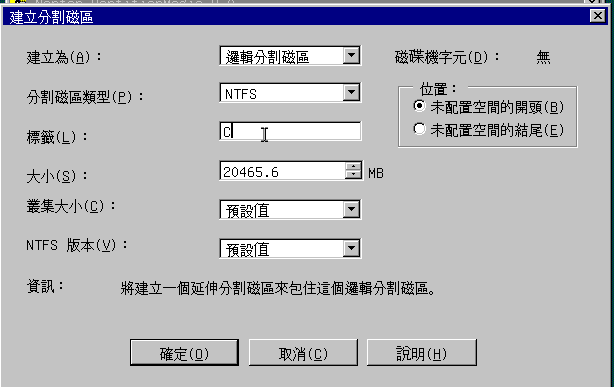
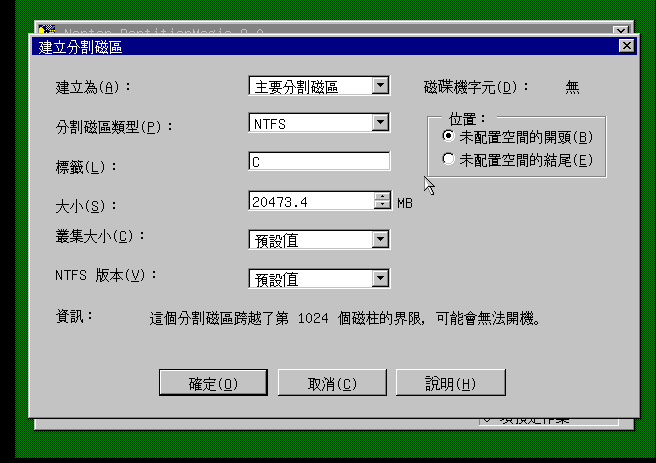
Site updated: 2019-10-29 20:48:37

diff --git a/2019/10/29/VMware-15-虚拟机安装-Win-7-系统/index.html b/2019/10/29/VMware-15-虚拟机安装-Win-7-系统/index.html
@@ -109,7 +109,6 @@
 <meta property="og:image" content="http://yoursite.com/2019/10/29/VMware-15-虚拟机安装-Win-7-系统/b.png">
 <meta property="og:image" content="http://yoursite.com/2019/10/29/VMware-15-虚拟机安装-Win-7-系统/c.png">
 <meta property="og:image" content="http://yoursite.com/2019/10/29/VMware-15-虚拟机安装-Win-7-系统/d.png">
-<meta property="og:image" content="http://yoursite.com/2019/10/29/VMware-15-虚拟机安装-Win-7-系统/e.png">
 <meta property="og:image" content="http://yoursite.com/2019/10/29/VMware-15-虚拟机安装-Win-7-系统/g.png">
 <meta property="og:image" content="http://yoursite.com/2019/10/29/VMware-15-虚拟机安装-Win-7-系统/h.png">
 <meta property="og:image" content="http://yoursite.com/2019/10/29/VMware-15-虚拟机安装-Win-7-系统/i.png">
@@ -127,7 +126,7 @@
 <meta property="og:image" content="http://yoursite.com/2019/10/29/VMware-15-虚拟机安装-Win-7-系统/%E5%9B%9B.png">
 <meta property="og:image" content="http://yoursite.com/2019/10/29/VMware-15-虚拟机安装-Win-7-系统/%E4%BA%94.png">
 <meta property="og:image" content="http://yoursite.com/2019/10/29/VMware-15-虚拟机安装-Win-7-系统/%E5%85%AD.png">
-<meta property="og:updated_time" content="2019-10-29T11:05:08.650Z">
+<meta property="og:updated_time" content="2019-10-29T12:44:02.681Z">
 <meta name="twitter:card" content="summary">
 <meta name="twitter:title" content="VMware 15 虚拟机安装 Win 7 系统">
 <meta name="twitter:description" content="下载地址：win7 ghost ISO镜像：https://pan.baidu.com/s/1zMpEhj5g0p5EVqXYi8QmQA提取码：qv2g (一)VMW新建虚拟机1、打开VMware,建立一个新的虚拟机2、选择”典型”,点击”下一步”3、选择”稍后安装系统”,点击”下一步”4、选择”Windows7”,点击”下一步”5、选择”浏览”改变安装路径(建议不要安装在C盘),点击”下一步”">
@@ -421,7 +420,7 @@
       
         <p>下载地址：<br>win7 ghost ISO镜像：<a href="https://pan.baidu.com/s/1zMpEhj5g0p5EVqXYi8QmQA" target="_blank" rel="noopener">https://pan.baidu.com/s/1zMpEhj5g0p5EVqXYi8QmQA</a><br>提取码：qv2g</p>
 <p>(一)VMW新建虚拟机<br>1、打开VMware,建立一个新的虚拟机<br><img src="/2019/10/29/VMware-15-虚拟机安装-Win-7-系统/1.png" alt><br>2、选择”典型”,点击”下一步”<br><img src="/2019/10/29/VMware-15-虚拟机安装-Win-7-系统/2.png" alt><br>3、选择”稍后安装系统”,点击”下一步”<br><img src="/2019/10/29/VMware-15-虚拟机安装-Win-7-系统/3.png" alt><br>4、选择”Windows7”,点击”下一步”<br><img src="/2019/10/29/VMware-15-虚拟机安装-Win-7-系统/4.png" alt><br>5、选择”浏览”改变安装路径(建议不要安装在C盘),点击”下一步”<br><img src="/2019/10/29/VMware-15-虚拟机安装-Win-7-系统/5.png" alt><br>6、设置硬盘大小,可以选择默认60G(博主建议尽量少点,原因请百度),点击”下一步”<br><img src="/2019/10/29/VMware-15-虚拟机安装-Win-7-系统/6.png" alt><br>7、点击”自定义硬件”<br><img src="/2019/10/29/VMware-15-虚拟机安装-Win-7-系统/7.png" alt><br>8、点击”新CD/DVD”,然后勾选”启动时链接”,选择”使用ISO映像文件”,点击”浏览”,选择下载好的ios镜像文件.点击下面的”高级”,选择”IDE”,点击”确定”。然后点击”关闭”(除上述必须一致,其他配置可依个人喜好设置)<br><img src="/2019/10/29/VMware-15-虚拟机安装-Win-7-系统/8.png" alt><br>9、点击”完成”<br><img src="/2019/10/29/VMware-15-虚拟机安装-Win-7-系统/9.png" alt></p>
-<p>(二)VMW安装Win7系统<br>1、直接点击界面上绿色的三角开机,进入BIOS系统设置中,直接退出保存即可<br><img src="/2019/10/29/VMware-15-虚拟机安装-Win-7-系统/a.png" alt><br>2、退出BIOS后页面,然后会进入下面的界面,选择”进入PQ分区工具”<br><img src="/2019/10/29/VMware-15-虚拟机安装-Win-7-系统/b.png" alt><br>3、出现的对话框中,直接点击作业- -&gt;建立<br><img src="/2019/10/29/VMware-15-虚拟机安装-Win-7-系统/c.png" alt><br>4、如下图选择后,点击确认<br><img src="/2019/10/29/VMware-15-虚拟机安装-Win-7-系统/d.png" alt><br>5、如下图,将类型为”NTFS”的项变更为主要<br><img src="/2019/10/29/VMware-15-虚拟机安装-Win-7-系统/e.png" alt><br>6、而后点击”执行”,完成后点击”结束”<br>7、然后出现此界面,直接输入”R”回车<br><img src="/2019/10/29/VMware-15-虚拟机安装-Win-7-系统/g.png" alt><br>8、返回Ghost界面,选择”安装Ghost Win7到C盘”<br><img src="/2019/10/29/VMware-15-虚拟机安装-Win-7-系统/h.png" alt><br>9、然后会进入下面Windows安装界面,等待安装完成<br><img src="/2019/10/29/VMware-15-虚拟机安装-Win-7-系统/i.png" alt><br>10、安装完成后,出现下面界面<br><img src="/2019/10/29/VMware-15-虚拟机安装-Win-7-系统/j.png" alt><br>11、关机退出<br><img src="/2019/10/29/VMware-15-虚拟机安装-Win-7-系统/k.png" alt><br>12、直接打开Win7虚拟机,再次进入”PQ分区工具”<br><img src="/2019/10/29/VMware-15-虚拟机安装-Win-7-系统/l.png" alt><br>13、选定类型为”NTFS”的项,点击”作业”- -&gt;”进阶”- -&gt;”设定为作用”,点击”确认”<br><img src="/2019/10/29/VMware-15-虚拟机安装-Win-7-系统/f.png" alt><br>14、然后点击”执行”- -&gt;”结束”<br>15、然后开始安装程序<br><img src="/2019/10/29/VMware-15-虚拟机安装-Win-7-系统/m.png" alt><br>16、直到出现此界面表示安装成功<br><img src="/2019/10/29/VMware-15-虚拟机安装-Win-7-系统/n.png" alt></p>
+<p>(二)VMW安装Win7系统<br>1、直接点击界面上绿色的三角开机,进入BIOS系统设置中,直接退出保存即可<br><img src="/2019/10/29/VMware-15-虚拟机安装-Win-7-系统/a.png" alt><br>2、退出BIOS后页面,然后会进入下面的界面,选择”进入PQ分区工具”<br><img src="/2019/10/29/VMware-15-虚拟机安装-Win-7-系统/b.png" alt><br>3、出现的对话框中,直接点击作业- -&gt;建立<br><img src="/2019/10/29/VMware-15-虚拟机安装-Win-7-系统/c.png" alt><br>4、如下图选择后,点击确认<br><img src="/2019/10/29/VMware-15-虚拟机安装-Win-7-系统/d.png" alt><br>5、而后点击”执行”,完成后点击”结束”<br>6、然后出现此界面,直接输入”R”回车<br><img src="/2019/10/29/VMware-15-虚拟机安装-Win-7-系统/g.png" alt><br>7、返回Ghost界面,选择”安装Ghost Win7到C盘”<br><img src="/2019/10/29/VMware-15-虚拟机安装-Win-7-系统/h.png" alt><br>8、然后会进入下面Windows安装界面,等待安装完成<br><img src="/2019/10/29/VMware-15-虚拟机安装-Win-7-系统/i.png" alt><br>9、安装完成后,出现下面界面<br><img src="/2019/10/29/VMware-15-虚拟机安装-Win-7-系统/j.png" alt><br>10、关机退出<br><img src="/2019/10/29/VMware-15-虚拟机安装-Win-7-系统/k.png" alt><br>11、直接打开Win7虚拟机,再次进入”PQ分区工具”<br><img src="/2019/10/29/VMware-15-虚拟机安装-Win-7-系统/l.png" alt><br>12、选定类型为”NTFS”的项,点击”作业”- -&gt;”进阶”- -&gt;”设定为作用”,点击”确认”<br><img src="/2019/10/29/VMware-15-虚拟机安装-Win-7-系统/f.png" alt><br>13、然后点击”执行”- -&gt;”结束”<br>14、然后开始安装程序<br><img src="/2019/10/29/VMware-15-虚拟机安装-Win-7-系统/m.png" alt><br>14、直到出现此界面表示安装成功<br><img src="/2019/10/29/VMware-15-虚拟机安装-Win-7-系统/n.png" alt></p>
 <p>开启虚拟机时可能弹出报如下提示：<br><img src="/2019/10/29/VMware-15-虚拟机安装-Win-7-系统/wrong.png" alt></p>
 <p>解决方式：<br>1、进入BIOS模式(不知道Win10怎么进入的自己百度)<br>2、选择”Security”- -&gt;选择”Virtualization”<br>3、将”Inter (R) Virtualization Technology”设置为”Enabled”<br>4、F10保存并退出,此问题解决</p>
 <p>(三)虚拟机未自适应全屏<br>如下图,安装Win7之后虚拟机自适应全屏<br><img src="/2019/10/29/VMware-15-虚拟机安装-Win-7-系统/%E9%9B%B6.png" alt></p>

diff --git a/css/main.css b/css/main.css
@@ -1953,7 +1953,7 @@ pre .javascript .function {
   width: 4px;
   height: 4px;
   border-radius: 50%;
-  background: #ac13c8;
+  background: #bf66ff;
 }
 .links-of-blogroll {
   font-size: 13px;
